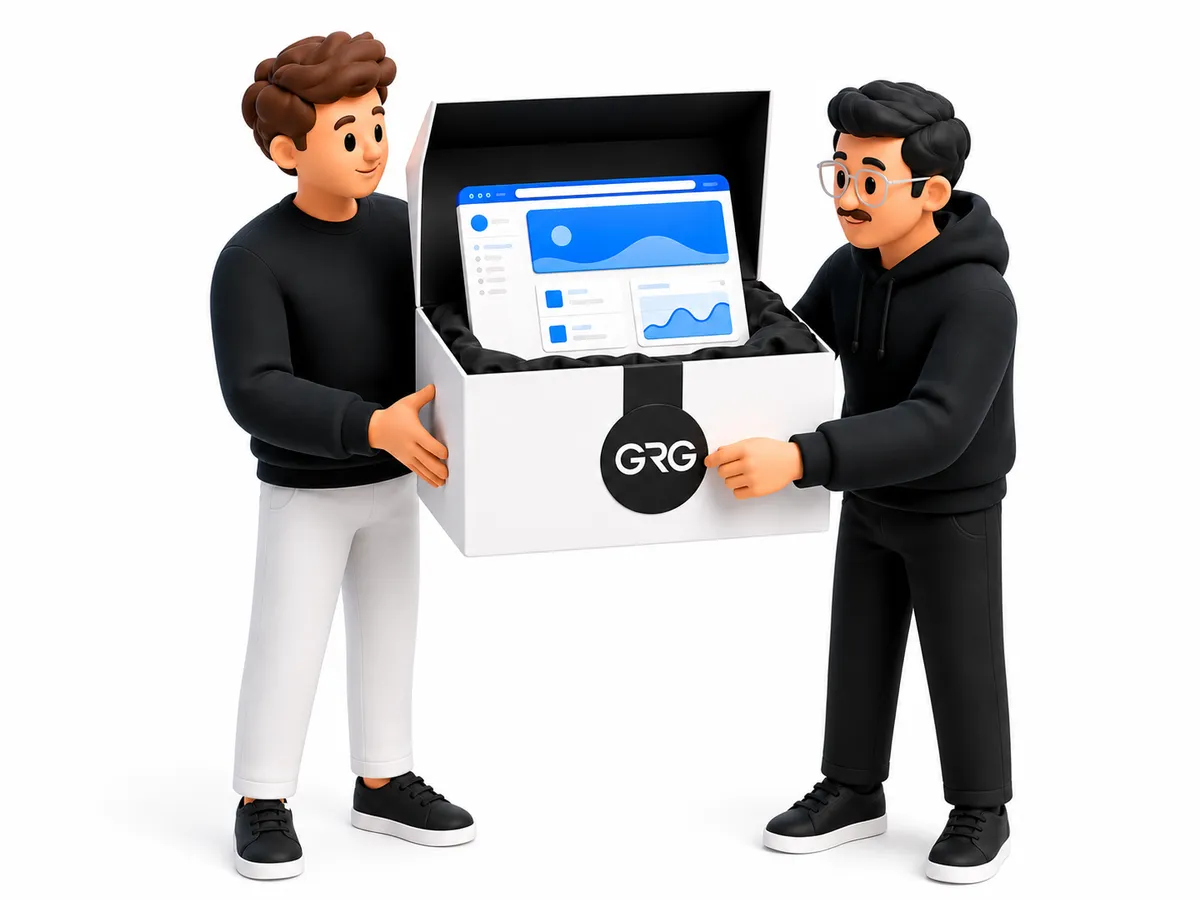
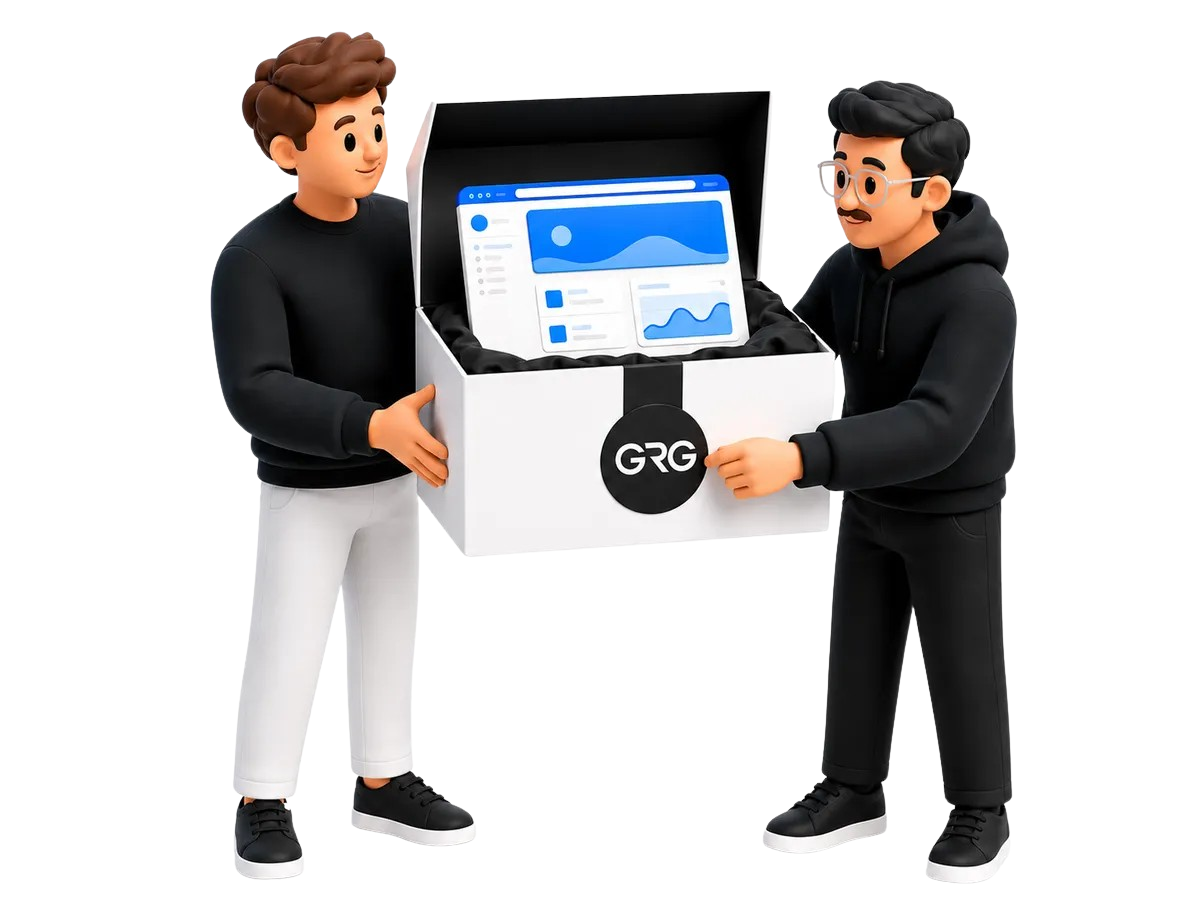
fixed dark mode bug

diff --git a/src/components/organisms/Hero/HeroBeamsBackground.tsx b/src/components/organisms/Hero/HeroBeamsBackground.tsx
@@ -17,13 +17,13 @@ const HERO_PLASMA_LIGHT = {
   opacity: 0.34,
 } as const;
 
-/** Gris más claro y algo más de opacidad para que se lea sobre #252525. */
+/** Gris claro de alto contraste sobre #252525 para que el plasma se distinga bien. */
 const HERO_PLASMA_DARK = {
-  color: "#b8c8dc",
+  color: "#e6ecf2",
   speed: 0.55,
   direction: "reverse" as const,
   scale: 0.76,
-  opacity: 0.46,
+  opacity: 0.62,
 } as const;
 
 export function HeroBeamsBackground() {

diff --git a/src/components/organisms/StaggeredMenu/StaggeredMenu.css b/src/components/organisms/StaggeredMenu/StaggeredMenu.css
@@ -1122,9 +1122,10 @@ html.dark .sm-sticky-brand-inner .sm-header-cta {
 }
 
 @media (hover: hover) and (min-width: 1025px) {
-  html.dark .sm-sticky-brand-inner .sm-header-cta:hover {
+  html.dark .sm-sticky-brand-inner .sm-header-cta:hover,
+  html.dark .sm-sticky-brand-inner .sm-header-left.sm-toggle:hover {
     color: var(--site-nav-ink);
-    border-color: rgba(255, 255, 255, 0.35);
+    border-color: rgba(255, 255, 255, 0.45);
   }
 }
 
